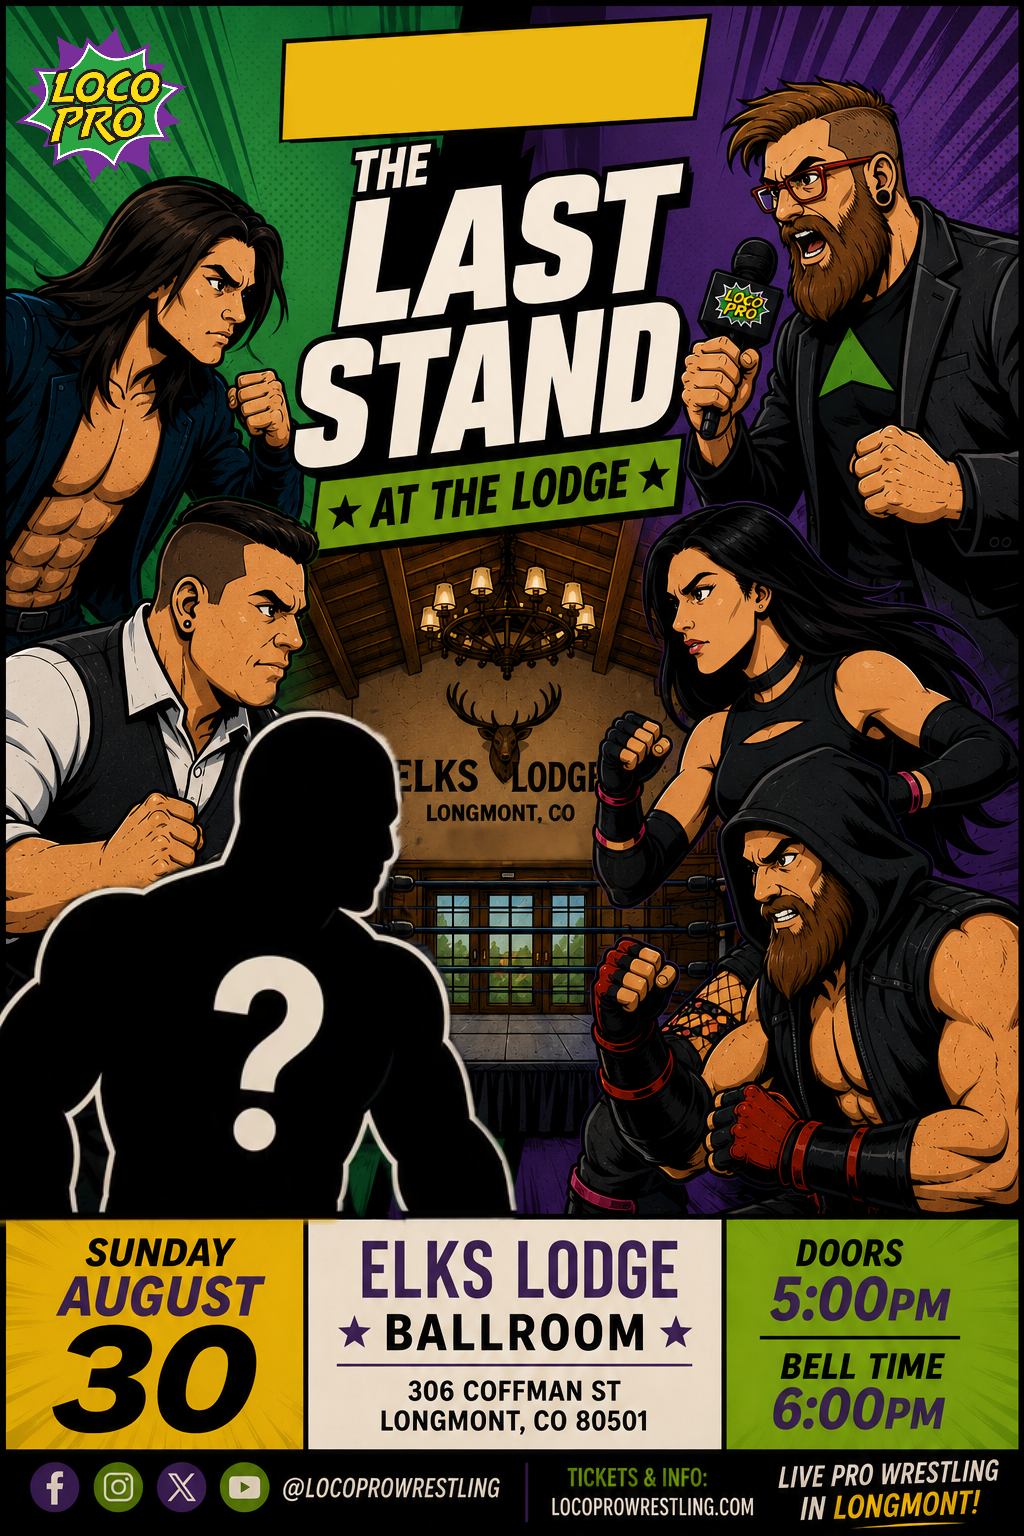
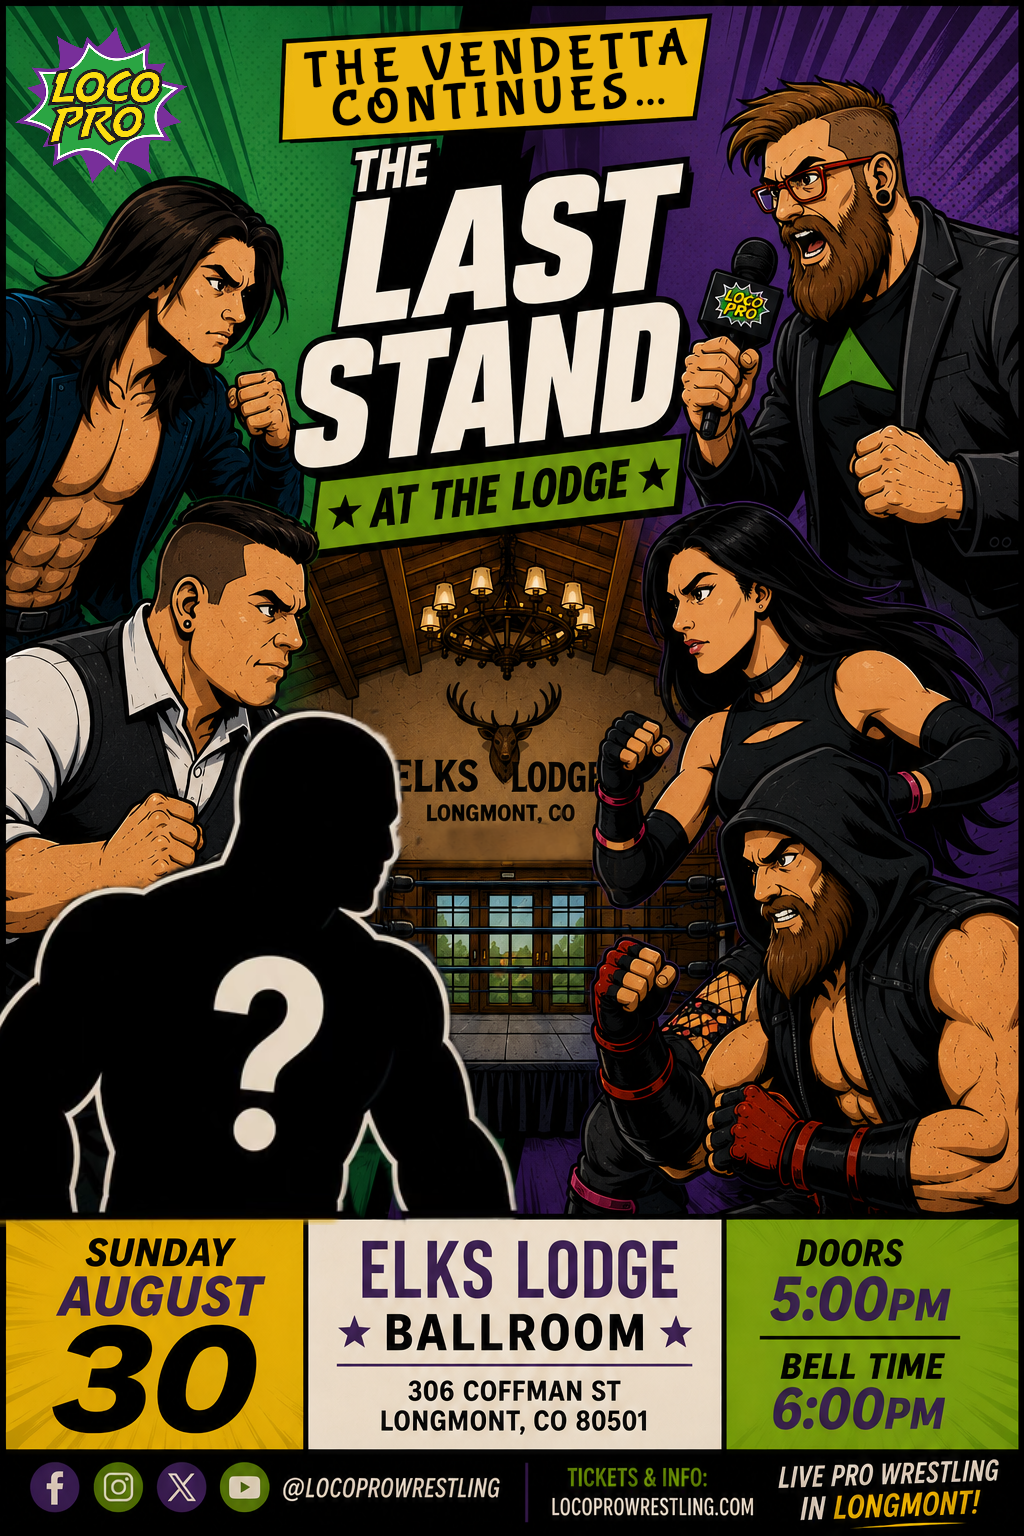
Update event copy and character references

Changed region(s): [[0.2812, 0.0, 0.6562, 0.0938]]

diff --git a/index.html b/index.html
@@ -6,7 +6,7 @@
   <title>The Last Stand at the Lodge | LoCo Pro Wrestling</title>
   <meta name="description" content="Adam Starling has the venue. JT Staten has the title, the power, and The Foundation. August 30, 2026 at the Elks Lodge Ballroom, Longmont, CO." />
   <meta property="og:title" content="The Last Stand at the Lodge | LoCo Pro Wrestling" />
-  <meta property="og:description" content="Adam Starling has the venue. JT Staten has everything else. August 30, 2026 — Elks Lodge Ballroom, Longmont, CO." />
+  <meta property="og:description" content="Adam Starling has the venue. JT Staten has everything else. August 30, 2026 at the Elks Lodge Ballroom in Longmont, CO." />
   <meta property="og:image" content="webimages/ui/social-wide.jpg" />
   <meta property="og:type" content="website" />
   <meta name="twitter:card" content="summary_large_image" />
@@ -31,7 +31,7 @@
     <div class="hero-bg"></div>
     <div class="hero-overlay"></div>
     <div class="hero-content">
-      <p class="hero-eyebrow"><span class="hero-brand">LoCo Pro Wrestling</span> <span class="hero-eyebrow-sep">★</span> A Continuation of Vendetta at the Opera House</p>
+      <p class="hero-eyebrow"><span class="hero-brand">LoCo Pro Wrestling</span> <span class="hero-eyebrow-sep">★</span> A Continuation of the Opera House Saga</p>
       <h1 class="hero-title">
         <span class="title-the">The</span>
         <span class="title-last-stand">Last Stand</span>
@@ -99,22 +99,22 @@
           <p class="about-body">
             At Vendetta at the Opera House, Adam Starling thought he had a plan. Break
             The Pillars' exclusivity contract. Take back his city. But
-            <strong>JT Staten</strong> was one step ahead — he disbanded The Pillars himself
+            <strong>JT Staten</strong> was one step ahead. He disbanded The Pillars himself
             and rebuilt them as <strong>The Foundation</strong>. Then the Main Street
-            Authority — a totally unrelated group, as far as anyone can prove — stepped
+            Authority (a totally unrelated group, as far as anyone can prove) stepped
             in and sealed a brand new exclusivity clause with the Opera House before
             Starling could do a thing about it.
           </p>
           <p class="about-body">
-            With the Opera House locked away, Starling needed a venue. He found one: the
-            Elks Lodge Ballroom in Longmont — built in 1925 and one of the most historic
-            rooms in the city. He knows this building. He's been here before. It's the
-            same room where he first discovered the <strong>City of Lights championship
-            in 2017</strong>.
+            With the Opera House locked away, Starling needed a venue and he knew exactly
+            where to find one: the Elks Lodge Ballroom in Longmont, built in 1925 and one
+            of the most historic rooms in the city. He knows this building. He's been here
+            before. It's the same room where he first discovered the
+            <strong>City of Lights championship in 2017</strong>.
           </p>
           <p class="about-body">
             But a room is all he has. Staten holds the title. Staten holds the power.
-            Staten holds all the cards. The question hanging over August 30th —
+            Staten holds all the cards. The question hanging over August 30th:
             what could possibly make JT Staten put that title on the line?
           </p>
         </div>
@@ -141,7 +141,7 @@
           <span class="venue-card-icon">🕔</span>
           <h3>Doors Open</h3>
           <p class="venue-card-time">5:00 PM</p>
-          <p class="venue-card-desc">Arrive early — get settled, grab merch, and soak it in before the chaos starts.</p>
+          <p class="venue-card-desc">Arrive early: get settled, grab merch, and soak it in before the chaos starts.</p>
         </div>
         <div class="venue-card">
           <span class="venue-card-icon">🔔</span>

diff --git a/styles.css b/styles.css
@@ -704,7 +704,7 @@ body {
 }
 
 .ticket-perks li::before {
-  content: '—';
+  content: '-';
   color: var(--gold);
   flex-shrink: 0;
   font-size: 0.75rem;
